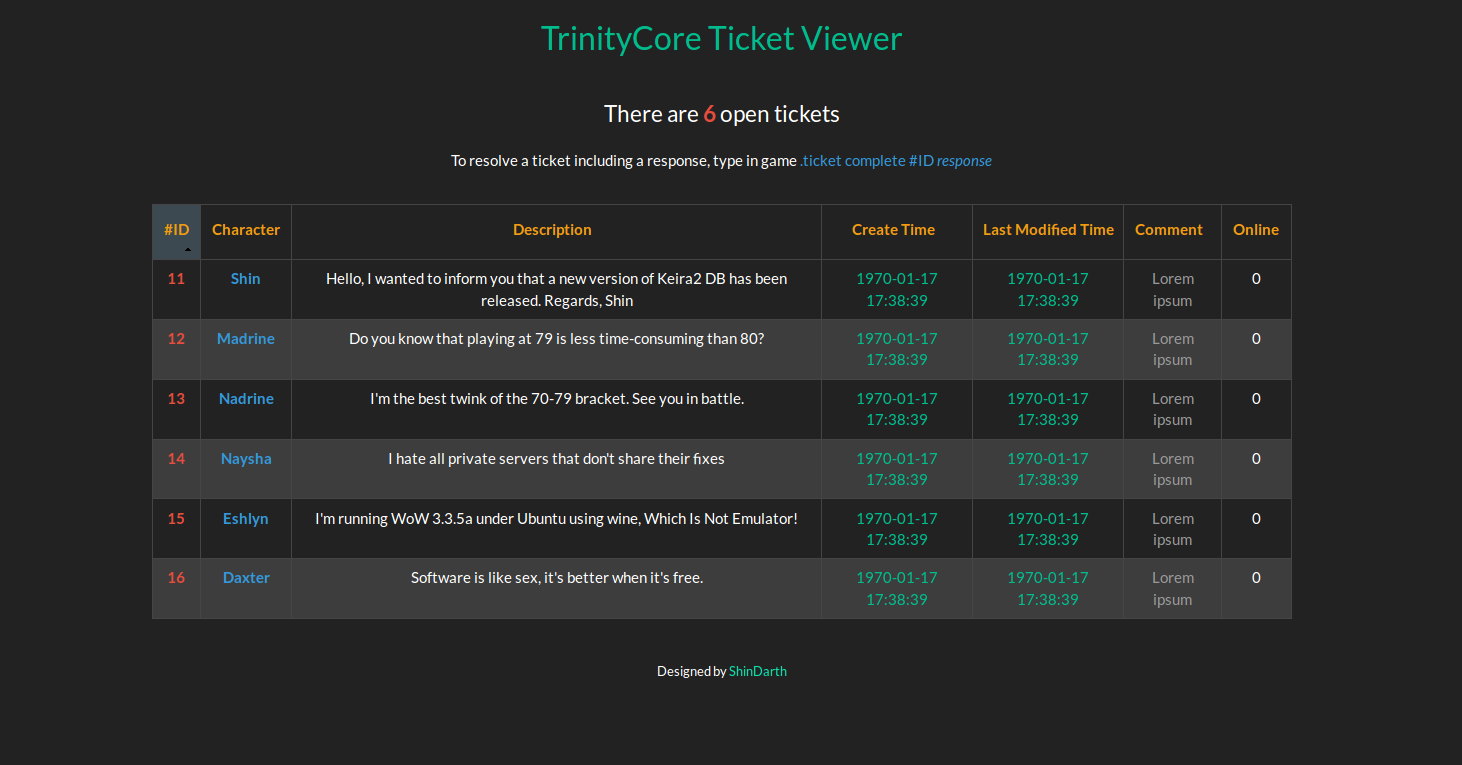
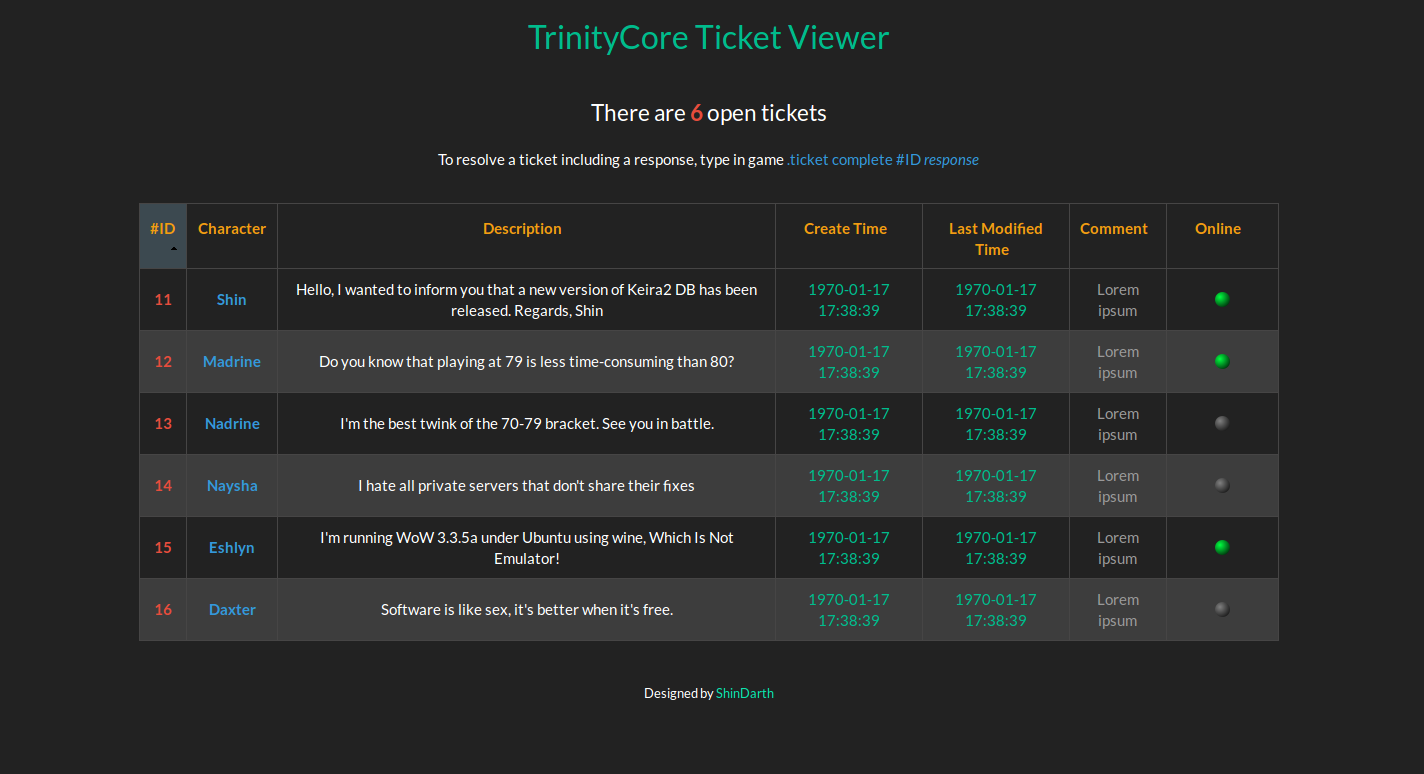
Improved online show

diff --git a/index.html b/index.html
@@ -54,7 +54,7 @@
                 <td class="text-success">{{ ticket.createTime | date:'yyyy-MM-dd HH:mm:ss' }}</td>
                 <td class="text-success">{{ ticket.lastModifiedTime | date:'yyyy-MM-dd HH:mm:ss' }}</td>
                 <td class="text-muted">{{ ticket.comment }}</td>
-                <td>{{ ticket.online }}</td>
+                <td><figure ng-show="ticket.online == 1" class="circle circle-on"></figure><figure ng-show="ticket.online == 0" class="circle circle-off"></figure></td>
               </tr>
             </tbody>
           </table>

diff --git a/css/style.css b/css/style.css
@@ -3,3 +3,17 @@ thead th {
   padding-bottom: 8px !important;
   vertical-align: top !important;
 }
+
+td { vertical-align: middle !important; }
+
+figure { margin: 1em 40px !important; }
+
+.circle {
+  display: block;
+  border-radius: 50%;
+  height: 15px;
+  width: 15px;
+}
+
+.circle-on  { background: radial-gradient(circle at 5px 5px, #00FF40, #000); }
+.circle-off { background: radial-gradient(circle at 5px 5px, grey, #000); }
